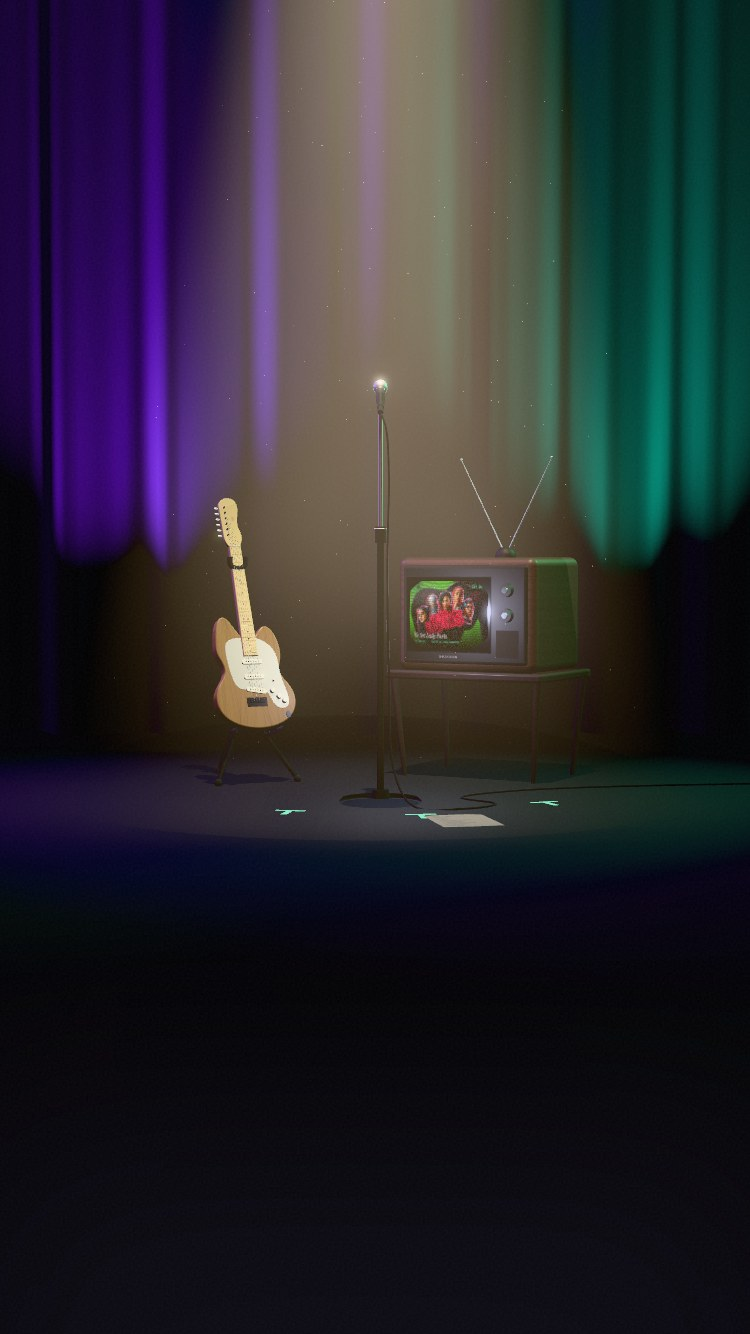
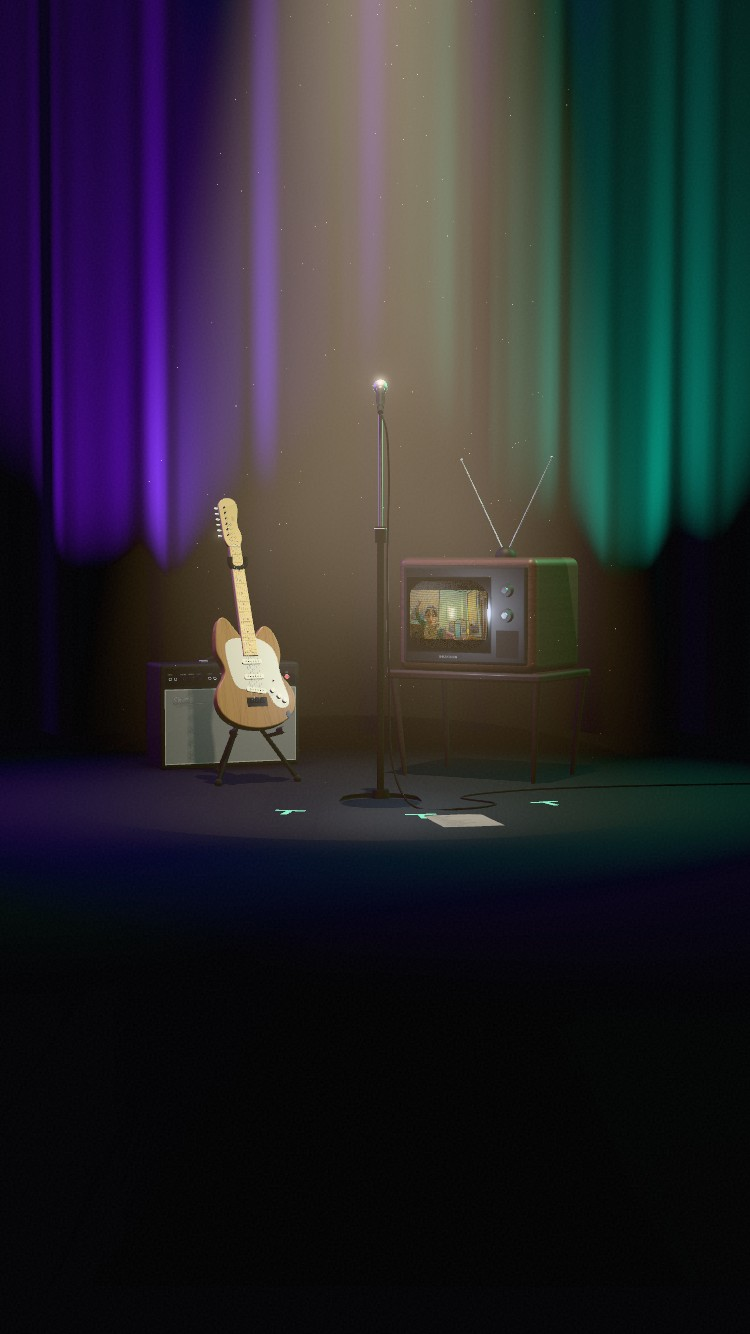
An amp behind the guitar on the stage
- A 1960s-style combo amp at real size (62 x 44.5 x 24 cm) stands behind the
  guitar and a little to its left, turned towards the middle: black tolex,
  silver grille cloth framed in white piping, a black panel with inputs, a row
  of knobs and a red pilot light that comes on with the TV, and a leather handle.
  The chrome script on the grille reads Shez, like the SHEZVISION badge on the TV.
- It stands outside the spotlight, so it reads darker than the guitar in front of
  it, with a soft shadow on the boards around its base.
- The six stills shown on devices without the 3D stage are rendered again with the
  amp, and the TV holding a frame from the first clip.
- The contact bubble stays out of the stage-only view used to make the stills.

Claude-Session: https://claude.ai/code/session_018VT1YWjr8SQh4K1xbMZgfU

Changed region(s): [[0.2147, 0.4918, 0.3987, 0.584], [0.5213, 0.4303, 0.644, 0.4918]]

diff --git a/src/scripts/stage3d/amp.ts b/src/scripts/stage3d/amp.ts
@@ -1,0 +1,162 @@
+/**
+ * A 1960s-style combo amp standing behind the guitar: black tolex, silver grille cloth
+ * framed in white piping, a black control panel with a row of knobs and a red pilot light,
+ * and a leather handle. The script badge on the grille carries his name, like the
+ * SHEZVISION badge on the TV.
+ */
+import * as THREE from 'three';
+import { RoundedBoxGeometry } from 'three/examples/jsm/geometries/RoundedBoxGeometry.js';
+import { mergeGeometries } from 'three/examples/jsm/utils/BufferGeometryUtils.js';
+import { ampPanel, contactShadow, grilleCloth, scriptBadge, tolex } from './textures';
+
+/** The size of the real thing, in metres. */
+const W = 0.62;
+const H = 0.445;
+const D = 0.24;
+/** tolex left showing around the grille and the panel */
+const BORDER = 0.021;
+const PANEL_H = 0.085;
+const PANEL_TOP = H - 0.012;
+/** the knobs sit a little below the middle of the panel, under their labels */
+const KNOB_Y = 0.4;
+
+/** The panel, left to right: two channels, each with two inputs and its knobs. */
+const CONTROLS = [
+  { x: 0.035, label: 'INPUT', jack: true },
+  { x: 0.075, label: '', jack: true },
+  { x: 0.135, label: 'VOLUME', jack: false },
+  { x: 0.195, label: 'TREBLE', jack: false },
+  { x: 0.255, label: 'BASS', jack: false },
+  { x: 0.335, label: 'INPUT', jack: true },
+  { x: 0.375, label: '', jack: true },
+  { x: 0.435, label: 'VOLUME', jack: false },
+  { x: 0.495, label: 'TREBLE', jack: false },
+  { x: 0.555, label: 'BASS', jack: false },
+  { x: 0.625, label: 'REVERB', jack: false },
+  { x: 0.685, label: 'SPEED', jack: false },
+  { x: 0.745, label: 'INTENSITY', jack: false },
+];
+const PILOT_X = 0.935;
+
+export function createAmp(fonts: { serif: string; mono: string }) {
+  const g = new THREE.Group();
+  g.name = 'amp';
+  const shadow = <T extends THREE.Mesh>(m: T) => {
+    m.castShadow = true;
+    m.receiveShadow = true;
+    return m;
+  };
+
+  const grain = tolex();
+  const vinyl = new THREE.MeshPhysicalMaterial({ map: grain.map, bumpMap: grain.bump, bumpScale: 0.8, roughness: 0.58, clearcoat: 0.2, clearcoatRoughness: 0.45 });
+  // the amp stands outside the spotlight: the pale cloth, the piping and the badge keep a
+  // little light of their own, so they read silver and white in the dark, not tinted by the washes
+  const weave = grilleCloth();
+  const cloth = new THREE.MeshStandardMaterial({ map: weave, roughness: 0.8, metalness: 0.1, envMapIntensity: 0.45, emissive: 0xffffff, emissiveMap: weave, emissiveIntensity: 0.16 });
+  const piping = new THREE.MeshStandardMaterial({ color: 0xe7e2d6, roughness: 0.45, emissive: 0xe7e2d6, emissiveIntensity: 0.07 });
+  const face = new THREE.MeshPhysicalMaterial({ map: ampPanel(fonts.mono, CONTROLS, PILOT_X, KNOB_Y), roughness: 0.34, clearcoat: 0.6, clearcoatRoughness: 0.2 });
+  const black = new THREE.MeshStandardMaterial({ color: 0x0b0b0c, roughness: 0.32, metalness: 0.1 });
+  const chrome = new THREE.MeshStandardMaterial({ color: 0xe2e2e2, metalness: 1, roughness: 0.18 });
+  const leather = new THREE.MeshStandardMaterial({ color: 0x141110, roughness: 0.55 });
+  const jewel = new THREE.MeshStandardMaterial({ color: 0x4a0806, emissive: 0xff2414, emissiveIntensity: 0, roughness: 0.2 });
+
+  // cabinet
+  const cabinet = shadow(new THREE.Mesh(new RoundedBoxGeometry(W, H, D, 4, 0.014), vinyl));
+  cabinet.position.y = H / 2;
+  g.add(cabinet);
+  const front = D / 2;
+
+  // grille cloth framed in white piping
+  const gw = W - 2 * BORDER;
+  const gBottom = 0.024;
+  const gTop = PANEL_TOP - PANEL_H - 0.012;
+  const gh = gTop - gBottom;
+  const pipe = new THREE.Mesh(new THREE.PlaneGeometry(gw + 0.007, gh + 0.007), piping);
+  pipe.position.set(0, gBottom + gh / 2, front + 0.001);
+  const grille = new THREE.Mesh(new THREE.PlaneGeometry(gw, gh), cloth);
+  grille.position.set(0, gBottom + gh / 2, front + 0.0016);
+  g.add(shadow(pipe), shadow(grille));
+
+  // the script badge, rising a little to the right in the top left corner of the grille
+  const script = scriptBadge('Shez', `italic 600 128px ${fonts.serif}`);
+  const badge = new THREE.Mesh(
+    new THREE.PlaneGeometry(0.17, 0.064),
+    new THREE.MeshStandardMaterial({ map: script, transparent: true, depthWrite: false, metalness: 0.5, roughness: 0.3, emissive: 0xffffff, emissiveMap: script, emissiveIntensity: 0.22 }),
+  );
+  badge.position.set(-gw / 2 + 0.105, gTop - 0.048, front + 0.0026);
+  badge.rotation.z = 0.08;
+  g.add(badge);
+
+  // control panel
+  const pw = W - 2 * BORDER;
+  const panelY = PANEL_TOP - PANEL_H / 2;
+  const panel = new THREE.Mesh(new THREE.PlaneGeometry(pw, PANEL_H), face);
+  panel.position.set(0, panelY, front + 0.0012);
+  g.add(shadow(panel));
+
+  // knobs (black, with a chrome cap) and the chrome nuts of the inputs
+  const knobY = panelY - PANEL_H / 2 + KNOB_Y * PANEL_H;
+  const knobs: THREE.BufferGeometry[] = [];
+  const bright: THREE.BufferGeometry[] = [];
+  const along = (geo: THREE.BufferGeometry, x: number, z: number) => geo.rotateX(Math.PI / 2).translate(x, knobY, front + z);
+  for (const c of CONTROLS) {
+    const x = (c.x - 0.5) * pw;
+    if (c.jack) {
+      bright.push(new THREE.TorusGeometry(0.0055, 0.0018, 8, 20).translate(x, knobY, front + 0.002));
+      continue;
+    }
+    knobs.push(along(new THREE.CylinderGeometry(0.0125, 0.0135, 0.005, 28), x, 0.004));
+    knobs.push(along(new THREE.CylinderGeometry(0.0085, 0.0095, 0.013, 24), x, 0.011));
+    bright.push(along(new THREE.CylinderGeometry(0.006, 0.006, 0.0016, 24), x, 0.0178));
+  }
+  g.add(shadow(new THREE.Mesh(mergeGeometries(knobs), black)));
+
+  // pilot light: a red jewel in a chrome bezel, lit when the amp is on
+  const pilotX = (PILOT_X - 0.5) * pw;
+  bright.push(new THREE.TorusGeometry(0.009, 0.0022, 8, 24).translate(pilotX, knobY, front + 0.002));
+  g.add(new THREE.Mesh(mergeGeometries(bright), chrome));
+  const pilot = new THREE.Mesh(new THREE.SphereGeometry(0.0085, 20, 10, 0, Math.PI * 2, 0, Math.PI / 2), jewel);
+  pilot.rotation.x = Math.PI / 2;
+  pilot.position.set(pilotX, knobY, front + 0.002);
+  g.add(pilot);
+
+  // leather handle between two chrome caps
+  const strap = new THREE.TubeGeometry(
+    new THREE.CatmullRomCurve3([
+      new THREE.Vector3(-0.08, 0, 0),
+      new THREE.Vector3(-0.05, 0.016, 0),
+      new THREE.Vector3(0, 0.022, 0),
+      new THREE.Vector3(0.05, 0.016, 0),
+      new THREE.Vector3(0.08, 0, 0),
+    ]),
+    24,
+    0.0075,
+    10,
+    false,
+  ).scale(1, 0.75, 2.4);
+  const handle = shadow(new THREE.Mesh(strap, leather));
+  handle.position.y = H + 0.006;
+  g.add(handle);
+  for (const s of [-1, 1]) {
+    const cap = shadow(new THREE.Mesh(new RoundedBoxGeometry(0.03, 0.011, 0.042, 2, 0.004), chrome));
+    cap.position.set(s * 0.086, H + 0.004, 0);
+    g.add(cap);
+  }
+
+  // a soft patch of shadow on the boards around its base
+  const contact = new THREE.Mesh(
+    new THREE.PlaneGeometry(W + 0.34, D + 0.4),
+    new THREE.MeshBasicMaterial({ color: 0x000000, alphaMap: contactShadow(), transparent: true, opacity: 0.8, depthWrite: false }),
+  );
+  contact.rotation.x = -Math.PI / 2;
+  contact.position.y = 0.0016;
+  g.add(contact);
+
+  return {
+    group: g,
+    /** 0 to 1: the pilot light comes on with the rest of the stage */
+    setPower(v: number) {
+      jewel.emissiveIntensity = 2.6 * v;
+    },
+  };
+}

diff --git a/src/scripts/stage3d/textures.ts b/src/scripts/stage3d/textures.ts
@@ -248,6 +248,129 @@ export function setlist(titles: string[], fonts: { serif: string; mono: string }
   );
 }
 
+/** Black tolex: pebbled vinyl for the amp, with a bump map for its grain. */
+export function tolex() {
+  seed = 71;
+  const color = canvas(512, 512, (ctx, w, h) => {
+    ctx.fillStyle = '#161616';
+    ctx.fillRect(0, 0, w, h);
+    for (let i = 0; i < 22000; i++) {
+      const v = Math.round(range(6, 42));
+      ctx.fillStyle = `rgba(${v},${v},${v + 2},${range(0.35, 0.85)})`;
+      const d = range(1, 2.6);
+      ctx.fillRect(range(0, w), range(0, h), d, d);
+    }
+  });
+  const bump = canvas(512, 512, (ctx, w, h) => {
+    ctx.fillStyle = 'rgb(128,128,128)';
+    ctx.fillRect(0, 0, w, h);
+    for (let i = 0; i < 9000; i++) {
+      const v = Math.round(range(60, 230));
+      ctx.fillStyle = `rgba(${v},${v},${v},0.75)`;
+      ctx.beginPath();
+      ctx.arc(range(0, w), range(0, h), range(0.8, 2.4), 0, Math.PI * 2);
+      ctx.fill();
+    }
+  });
+  return { map: texture(color, { repeat: [3, 3] }), bump: texture(bump, { color: false, repeat: [3, 3] }) };
+}
+
+/** Silver grille cloth: a fine weave of pale and dark threads with a little sparkle. */
+export function grilleCloth() {
+  seed = 73;
+  return texture(
+    canvas(256, 256, (ctx, w, h) => {
+      ctx.fillStyle = '#9a9893';
+      ctx.fillRect(0, 0, w, h);
+      for (let y = 0; y < h; y += 2) {
+        ctx.fillStyle = `rgba(24,24,28,${y % 4 ? 0.34 : 0.12})`;
+        ctx.fillRect(0, y, w, 1);
+      }
+      for (let x = 0; x < w; x += 2) {
+        ctx.fillStyle = `rgba(236,234,228,${x % 4 ? 0.2 : 0.07})`;
+        ctx.fillRect(x, 0, 1, h);
+      }
+      for (let i = 0; i < 1500; i++) {
+        ctx.fillStyle = `rgba(255,255,255,${range(0.2, 0.7)})`;
+        ctx.fillRect(Math.floor(range(0, w)), Math.floor(range(0, h)), 1, 1);
+      }
+    }),
+    { repeat: [9, 5] },
+  );
+}
+
+/** The amp's black control panel: white labels over each knob and input. */
+export function ampPanel(font: string, marks: { x: number; label: string; jack: boolean }[], pilot: number, knobY: number) {
+  return texture(
+    canvas(1024, 150, (ctx, w, h) => {
+      ctx.fillStyle = '#0c0c0d';
+      ctx.fillRect(0, 0, w, h);
+      // a thin bright rule along the top and bottom edges
+      ctx.fillStyle = 'rgba(210,210,210,0.32)';
+      ctx.fillRect(0, 5, w, 2);
+      ctx.fillRect(0, h - 7, w, 2);
+      ctx.fillStyle = '#ece8df';
+      ctx.font = `600 13px ${font}`;
+      ctx.textAlign = 'center';
+      const y = (1 - knobY) * h;
+      for (const m of marks) {
+        if (m.label) ctx.fillText(m.label, m.x * w, y - 32);
+        if (m.jack) {
+          ctx.beginPath();
+          ctx.arc(m.x * w, y, 7, 0, Math.PI * 2);
+          ctx.fillStyle = '#000';
+          ctx.fill();
+          ctx.fillStyle = '#ece8df';
+        }
+      }
+      ctx.fillText('ON', pilot * w, y - 32);
+    }),
+  );
+}
+
+/** A chrome script badge, written in the site's serif, with a swash under it. */
+export function scriptBadge(text: string, font: string) {
+  return texture(
+    canvas(512, 192, (ctx, w, h) => {
+      ctx.clearRect(0, 0, w, h);
+      const g = ctx.createLinearGradient(0, 30, 0, h - 30);
+      g.addColorStop(0, '#ffffff');
+      g.addColorStop(0.45, '#c9c9c9');
+      g.addColorStop(0.55, '#8f8f8f');
+      g.addColorStop(1, '#e6e6e6');
+      ctx.fillStyle = g;
+      ctx.strokeStyle = g;
+      ctx.font = font;
+      ctx.textBaseline = 'middle';
+      ctx.fillText(text, 40, h * 0.44);
+      // the tail: a swash from under the first letter out to the right
+      ctx.lineWidth = 9;
+      ctx.lineCap = 'round';
+      ctx.beginPath();
+      ctx.moveTo(52, h * 0.8);
+      ctx.quadraticCurveTo(w * 0.45, h * 0.66, w - 40, h * 0.74);
+      ctx.stroke();
+    }),
+  );
+}
+
+/** A soft dark patch for under things standing on the floor, used as an alpha map. */
+export function contactShadow() {
+  return texture(
+    canvas(256, 256, (ctx, w, h) => {
+      ctx.fillStyle = '#000';
+      ctx.fillRect(0, 0, w, h);
+      const g = ctx.createRadialGradient(w / 2, h / 2, 0, w / 2, h / 2, w / 2);
+      g.addColorStop(0, '#fff');
+      g.addColorStop(0.5, '#a0a0a0');
+      g.addColorStop(1, '#000');
+      ctx.fillStyle = g;
+      ctx.fillRect(0, 0, w, h);
+    }),
+    { color: false },
+  );
+}
+
 /** Small brand decals: the headstock logo and the TV badge. */
 export function decal(text: string, font: string, color: string, w = 512, h = 160) {
   return texture(

diff --git a/src/scripts/stage3d/scene.ts b/src/scripts/stage3d/scene.ts
@@ -1,6 +1,6 @@
 /**
- * The stage: an electric guitar on its stand, a vocal mic, an old TV playing his film
- * and TV work, and one light from above. Runs the intro (lights come up, the camera
+ * The stage: an electric guitar on its stand with an amp behind it, a vocal mic, an old TV
+ * playing his film and TV work, and one light from above. Runs the intro (lights come up, the camera
  * walks in) and then idles, reacting to the pointer, the scroll position and taps.
  */
 import * as THREE from 'three';
@@ -8,6 +8,7 @@ import { EffectComposer } from 'three/examples/jsm/postprocessing/EffectComposer
 import { RenderPass } from 'three/examples/jsm/postprocessing/RenderPass.js';
 import { UnrealBloomPass } from 'three/examples/jsm/postprocessing/UnrealBloomPass.js';
 import { OutputPass } from 'three/examples/jsm/postprocessing/OutputPass.js';
+import { createAmp } from './amp';
 import { createGuitar, createGuitarStand, mountGuitar } from './guitar';
 import { createMicStand } from './mic';
 import { createTV, type Channel } from './tv';
@@ -41,6 +42,8 @@ type Spot = [x: number, z: number, rotY: number];
 type Layout = {
   mic: Spot;
   guitar: Spot;
+  /** behind the guitar, a little to its left, turned towards the middle */
+  amp: Spot;
   tv: Spot;
   setlist: Spot;
   /** vertical field of view, degrees */
@@ -59,6 +62,7 @@ function layoutFor(aspect: number): Layout {
     return {
       mic: [0.02, 0.3, 0],
       guitar: [-0.52, -0.42, 0.45],
+      amp: [-0.66, -1.02, 0.38],
       tv: [0.47, -0.62, -0.52],
       setlist: [0.3, 0.78, 0.22],
       fov: 38,
@@ -70,6 +74,7 @@ function layoutFor(aspect: number): Layout {
   return {
     mic: [0, 0.24, 0],
     guitar: [-1.02, -0.18, 0.42],
+    amp: [-1.26, -0.86, 0.32],
     tv: [1.04, -0.32, -0.4],
     setlist: [0.4, 0.7, 0.22],
     fov: 28,
@@ -127,6 +132,9 @@ export async function createStage(opts: StageOptions) {
   const guitar = createGuitar({ serif: fonts.serif });
   mountGuitar(stand, guitar);
   scene.add(stand);
+
+  const amp = createAmp(fonts);
+  scene.add(amp.group);
   const strings = guitar.getObjectByName('strings') as THREE.Mesh;
 
   const mic = createMicStand();
@@ -219,6 +227,7 @@ export async function createStage(opts: StageOptions) {
     layout = layoutFor(aspect);
     place(mic, layout.mic);
     place(stand, layout.guitar);
+    place(amp.group, layout.amp);
     place(tv.group, layout.tv);
     place(sheet, layout.setlist);
     washes.forEach((w, i) => {
@@ -305,6 +314,7 @@ export async function createStage(opts: StageOptions) {
     // the TV warms up, then plays his clips one after another
     const power = smooth(T.tvOn, T.tvFull, t);
     tv.uniforms.uPower.value = power;
+    amp.setPower(power);
     tv.uniforms.uTime.value = time;
     if (!zapping && (tv.ended || time >= nextChannelAt)) zap();
     staticLevel = Math.max(0, staticLevel - dt * 2.6);

diff --git a/README.md b/README.md
@@ -2,7 +2,7 @@
 
 Website for **Shez Manzoor**, London composer for film and TV, who also releases soul and R&B as **SHEZ**.
 
-**Design 2: the stage.** This branch is the second design, published at `/design-2/` for comparison. The homepage opens on his name in the dark, like a preloader. Then a light comes on above a stage set with his electric guitar on its stand, a vocal mic and an old TV that plays his film and TV work. The name dims into the backdrop. After 3.5 seconds a ring of covers and posters for everything he has made turns into view in front. Each one opens a panel with the release date, credits, tracklist, and Apple Music and Spotify players. Scrolling down gives the full story, the film and TV credits, the full discography, press, FAQ and contact.
+**Design 2: the stage.** This branch is the second design, published at `/design-2/` for comparison. The homepage opens on his name in the dark, like a preloader. Then a light comes on above a stage set with his electric guitar on its stand, a 1960s-style amp behind it, a vocal mic and an old TV that plays his film and TV work. The name dims into the backdrop. After 3.5 seconds a ring of covers and posters for everything he has made turns into view in front. Each one opens a panel with the release date, credits, tracklist, and Apple Music and Spotify players. Scrolling down gives the full story, the film and TV credits, the full discography, press, FAQ and contact.
 
 On stage, the TV changes channel when tapped, the guitar strums, and the mic changes the colour of the light. Purple and green, his colours, wash the curtain either side.
 
